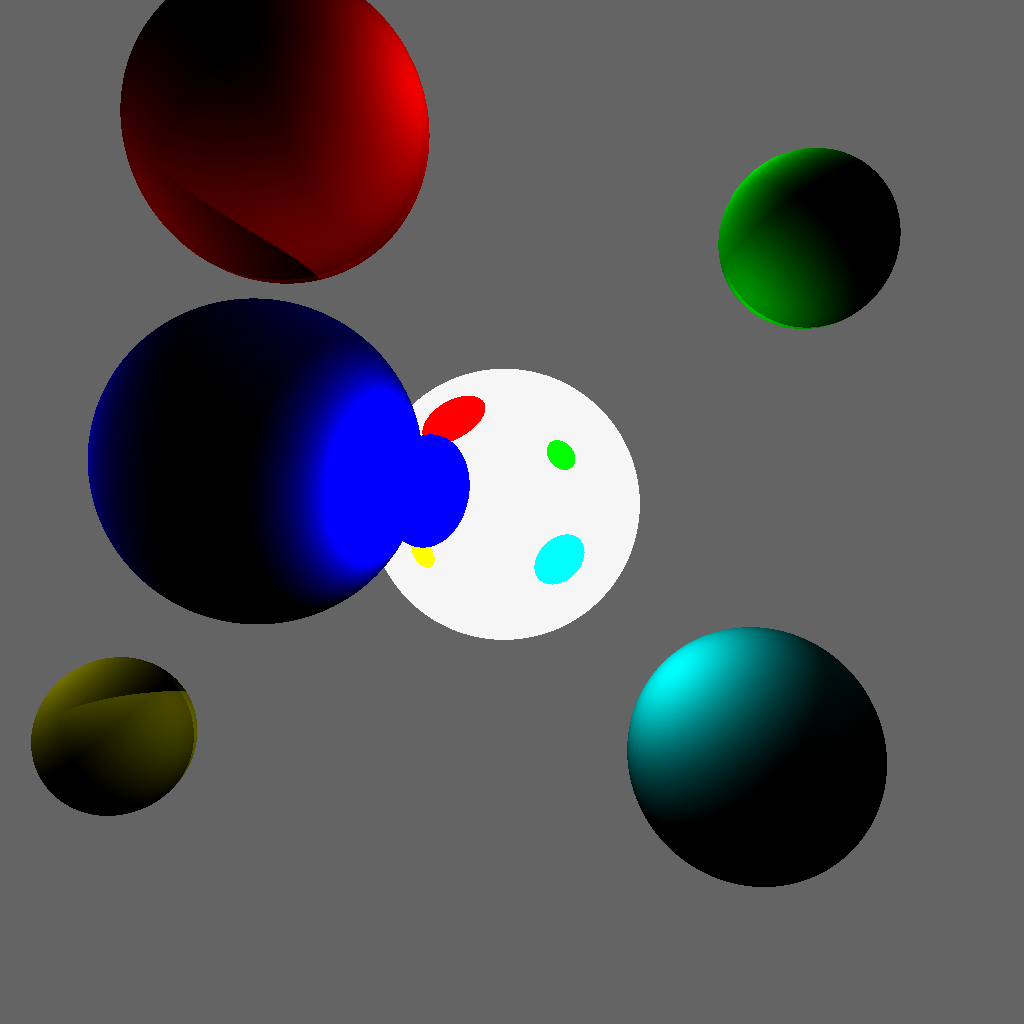
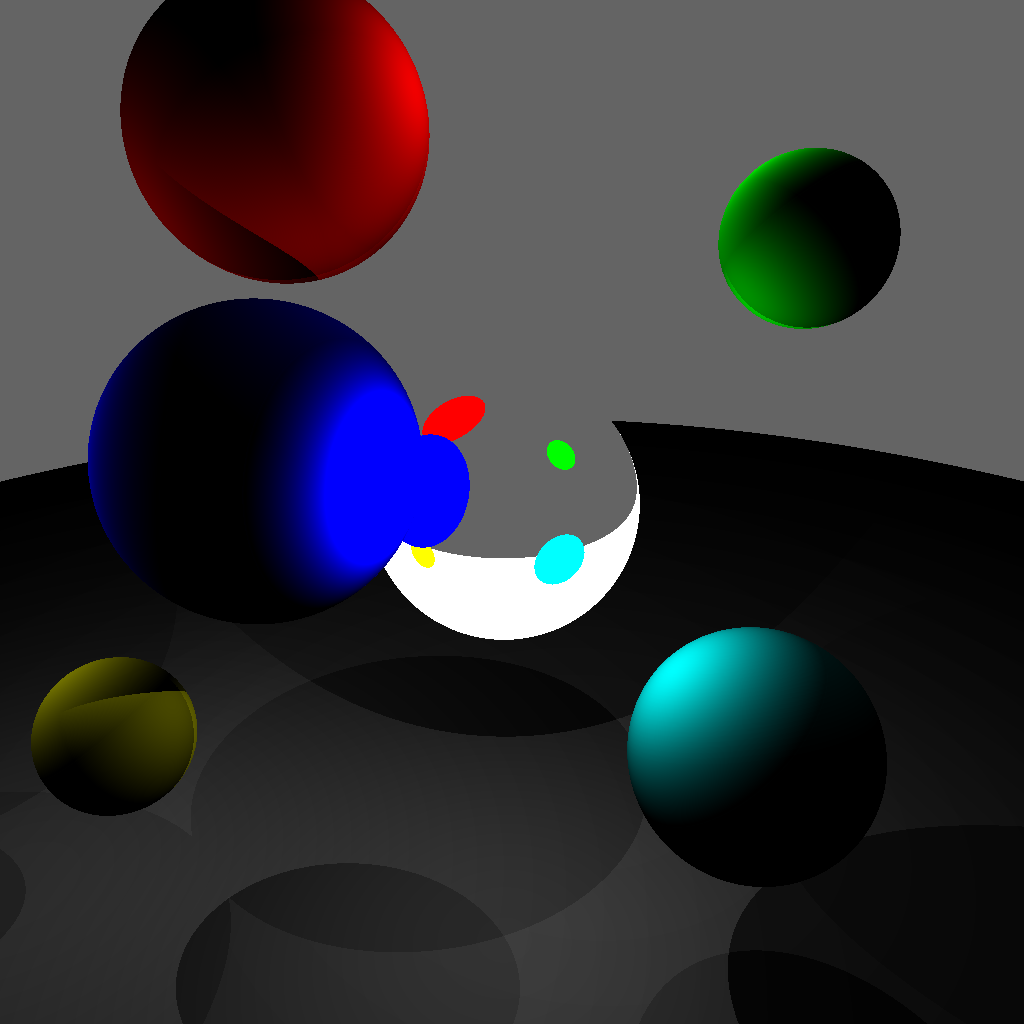
AJout sphere "terre"

diff --git a/SyntheseTP2/SyntheseTP2/Main.cpp b/SyntheseTP2/SyntheseTP2/Main.cpp
@@ -133,7 +133,7 @@ void mirrorRebound(Vector3 intersection, Rayon rayon, vector<Sphere*> spheres, i
     }
     else
     {
-        color(image, index, Couleur(240, 240, 240, 150));
+        color(image, index, Couleur(100, 100, 100));
     }
 }
 
@@ -186,6 +186,8 @@ int main(int argc, char* argv[]) {
 
         SphereCouleur jaune = SphereCouleur(100, Vector3(0, 800, 300), Couleur(1, 1, 0));
 
+        SphereCouleur terre = SphereCouleur(10000, Vector3(512, 10000, 5000), Couleur(1, 1, 1));
+
         Mirroir mirroir = Mirroir(200, Vector3(500, 500, 500), Couleur(1, 1, 1));
 
         addSphere(&spheres, &rouge);
@@ -193,6 +195,7 @@ int main(int argc, char* argv[]) {
         addSphere(&spheres, &vert);
         addSphere(&spheres, &cyan);
         addSphere(&spheres, &jaune);
+        addSphere(&spheres, &terre);
         addSphere(&spheres, &mirroir);
 
         vector<Lampe> lampes;
